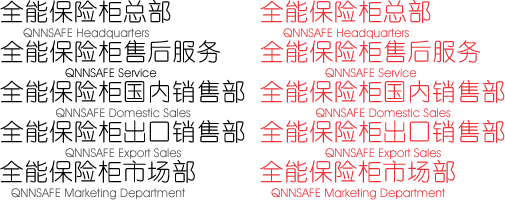
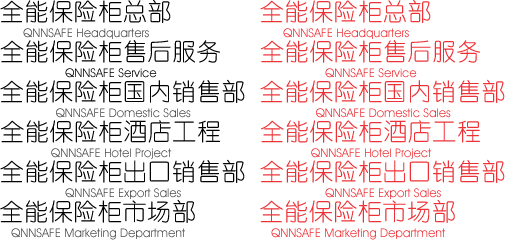
update contact page;

diff --git a/_assets/stylesheets/contact.css.scss b/_assets/stylesheets/contact.css.scss
@@ -45,14 +45,19 @@
       background-position: 0 -80px;
     }
     .csh4 {
-      width: 245px;
+      width: 220px;
       height: 40px;
       background-position: 0 -120px;
     }
     .csh5 {
-      width: 196px;
+      width: 245px;
       height: 40px;
-      background-position: 0 -158px;
+      background-position: 0 -160px;
+    }
+    .csh6 {
+      width: 195px;
+      height: 40px;
+      background-position: 0 -200px;
     }
   }
   .cs_shadow {
@@ -96,7 +101,10 @@
       background-position: -260px -120px;
     }
     .csh5 {
-      background-position: -260px -158px;
+      background-position: -260px -160px;
+    }
+    .csh6 {
+      background-position: -260px -200px;
     }
     .cs_shadow {
[1 lines of base64/hex data omitted]

diff --git a/_assets/javascripts/contact.js b/_assets/javascripts/contact.js
@@ -8,7 +8,7 @@
 (function(e){e.fn.hoverIntent=function(t,n,r){var i={interval:100,sensitivity:7,timeout:0};if(typeof t==="object"){i=e.extend(i,t)}else if(e.isFunction(n)){i=e.extend(i,{over:t,out:n,selector:r})}else{i=e.extend(i,{over:t,out:t,selector:n})}var s,o,u,a;var f=function(e){s=e.pageX;o=e.pageY};var l=function(t,n){n.hoverIntent_t=clearTimeout(n.hoverIntent_t);if(Math.abs(u-s)+Math.abs(a-o)<i.sensitivity){e(n).off("mousemove.hoverIntent",f);n.hoverIntent_s=1;return i.over.apply(n,[t])}else{u=s;a=o;n.hoverIntent_t=setTimeout(function(){l(t,n)},i.interval)}};var c=function(e,t){t.hoverIntent_t=clearTimeout(t.hoverIntent_t);t.hoverIntent_s=0;return i.out.apply(t,[e])};var h=function(t){var n=jQuery.extend({},t);var r=this;if(r.hoverIntent_t){r.hoverIntent_t=clearTimeout(r.hoverIntent_t)}if(t.type=="mouseenter"){u=n.pageX;a=n.pageY;e(r).on("mousemove.hoverIntent",f);if(r.hoverIntent_s!=1){r.hoverIntent_t=setTimeout(function(){l(n,r)},i.interval)}}else{e(r).off("mousemove.hoverIntent",f);if(r.hoverIntent_s==1){r.hoverIntent_t=setTimeout(function(){c(n,r)},i.timeout)}}};return this.on({"mouseenter.hoverIntent":h,"mouseleave.hoverIntent":h},i.selector)}})(jQuery)
 
 $(function(){
-  var distance = 300, speed = 400, opacity = 0.5;
+  var distance = 300, speed = 300, opacity = 0.5;
   $('.contact_square').hoverIntent({
     over: function(){
       var package = $(this).find('.cs_header, .cs_shadow, .cs_content');
